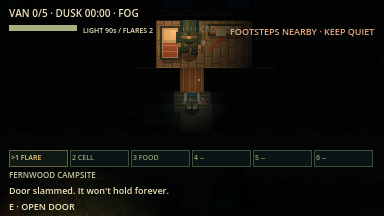
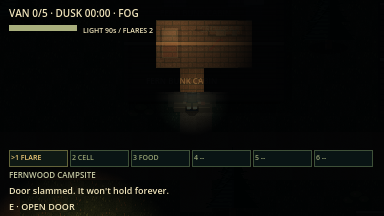
Make knock-overs close the whole trail and doors close on the run
Playtest fixes: woodpiles and deadfalls now sit on straight trail
stretches and fall wall to wall across the measured trail width, placing
the survivor on the far side from the chaser. Slamming a door while still
in the doorway steps you through instead of refusing; doors win the E
prompt near hiding spots. verify 87/87; network 269 and 455 pass.

Changed region(s): [[0.4062, 0.0833, 0.9688, 0.5]]

diff --git a/docs/development_log.md b/docs/development_log.md
@@ -1,5 +1,38 @@
 # Development log
 
+## 2026-10-16 — Playtest fixes: knock-overs close the trail; doors close on the run
+
+User playtest feedback, three points:
+
+1. **"The woodpiles don't exactly block the path."** Confirmed. A 44 px log fell
+   along the player's facing, but woods trails are 128 px wide and camp piles
+   sat in open ground. Knock-overs now sit only on straight trail stretches.
+   Each measures the open trail across its axis (walkable tiles, up to 180 px)
+   and precomputes a fall line 8 px into both walls. Woodpiles are the first 4
+   such stretches 750–1,300 px from camp; deadfalls are up to 60 deeper in. The
+   survivor who topples it is placed on the far side from the nearest creature
+   (else their own side). The log never solidifies over another survivor. The
+   fallen-log art is now chunkier.
+2. **"Are you supposed to be able to move when downed?"** Yes: the planned
+   20 px/s crawl. Left unchanged pending the user's call.
+3. **"The doors aren't that easy to close when you run in."** Cause: pressing E
+   while still in the 24 px thick doorway hit the "Something is in the doorway"
+   guard, because the acting player counted as a blocker. Now the actor is
+   excluded and stepped through toward their heading. Reach went from 18 to
+   22 px. Door prompts win over nearby hiding spots and piles (the nearer target
+   wins unless you're in the gap). Hiding spots are no longer placed within
+   30 px of a door.
+
+Tests: `chase_props` now proves full-width closure (15 parallel lanes blocked
+across both a woodpile and a deadfall), far-side placement, slamming from the
+doorway, and refusal only when someone else is in it. The network hide stage
+picks an item-free spot. The knock-over capture is an inspection shot (raised
+ambient, no sight mask).
+
+**Verification:** `python3 tools/verify.py` 87/87 steps, no errors or warnings
+(`chase_props`: 43 headless / 46 graphical). `verify_network.py --mode all`:
+2 peers 269 and 4 peers 455 assertions, all passing.
+
 ## 2026-10-16 — Overhaul F3b: hiding spots, doors and knock-overs
 
 Second half of the chase toolkit, in a host-owned `ChaseProps` node

diff --git a/docs/evidence/chase_props/README.md b/docs/evidence/chase_props/README.md
@@ -5,14 +5,15 @@ macOS arm64 / Godot 4.7.2, 16 October 2026. Network rules version `lnac-net-7`.
 | Command | Result |
 | --- | --- |
 | `python3 tools/verify.py` | 87/87 steps passed, no errors or warnings ([summary](verify_summary.json)) |
-| `godot --audio-driver Dummy --path . --fixed-fps 60 --disable-vsync --script res://tests/integration/chase_props.gd -- --capture` | 36 assertions passed (33 headless, see [log](chase_props.log)) |
+| `godot --audio-driver Dummy --path . --fixed-fps 60 --disable-vsync --script res://tests/integration/chase_props.gd -- --capture` | 46 assertions passed (43 headless, see [log](chase_props.log)), after the playtest fixes |
 | `python3 tools/verify_network.py --mode all --players 2` | 6 processes / 269 assertions passed ([summary](summary_all_2.json)) |
 | `python3 tools/verify_network.py --mode all --players 4` | 8 processes / 455 assertions passed ([summary](summary_all_4.json)) |
 
-| Hidden under a bunk | Door slammed (beam blocked) | Woodpile knocked over |
+| Hidden in a cabin | Door slammed (beam blocked) | Deadfall across a trail (inspection lighting) |
 | --- | --- | --- |
 | ![Hidden survivor with breath HUD](props_hidden.png) | ![Closed cabin door blocking the flashlight](props_door.png) | ![Fallen woodpile blocking a lane](props_knockover.png) |
 
-Normal Dusk fog lighting. The fallen woodpile is readable in the beam but
-low-contrast; it is a candidate for the planned art revamp. Not verified: human
+Hiding and door captures use normal Dusk fog lighting. The deadfall capture
+raises ambient light and disables the sight mask so the whole wall-to-wall fall
+line is visible; normal play is darker. Not verified: human
 feel of breath and door timings, graphical network windows, other platforms.

diff --git a/README.md b/README.md
@@ -346,13 +346,17 @@ where teammates can recover them with E.
   loudly and tumble out. If a creature *saw* you hide, it comes to that spot and
   drags you out, so break line of sight first. E leaves; your flashlight comes
   back on.
-- **Doors:** every building door can be slammed shut with **E** (a small noise).
+- **Doors:** every building door can be slammed shut with **E** (a small noise),
+  even while you're still running through the doorway: you finish the step in
+  the direction you're heading and the door shuts behind you.
   Closed doors block movement, sight and light. A creature pressing on one breaks
   through in about **2.5 s** with a loud crash, and a smashed door can't be closed
   again for 20 s.
-- **Knock-overs:** woodpiles beside camp buildings and deadfall logs along the
-  trails. Press **E** to topple one in the direction you face: it blocks the lane
-  for **6 s**, stuns anything it lands on for 2 s, and is loud. Each works once.
+- **Knock-overs:** woodpiles on the straight trail stretches just outside camp,
+  and deadfall logs on straight stretches deeper in the woods. Press **E** to
+  topple one: it falls **across the whole trail, wall to wall**, closing it for
+  **6 s**. You land on the far side from whatever is chasing you, and anything it
+  lands on is stunned for 2 s. Loud, and each works once.
 
 If everyone is down (and no solo last chance remains), the round ends in defeat.
 Successful revivals do not accumulate toward defeat; the round continues while
